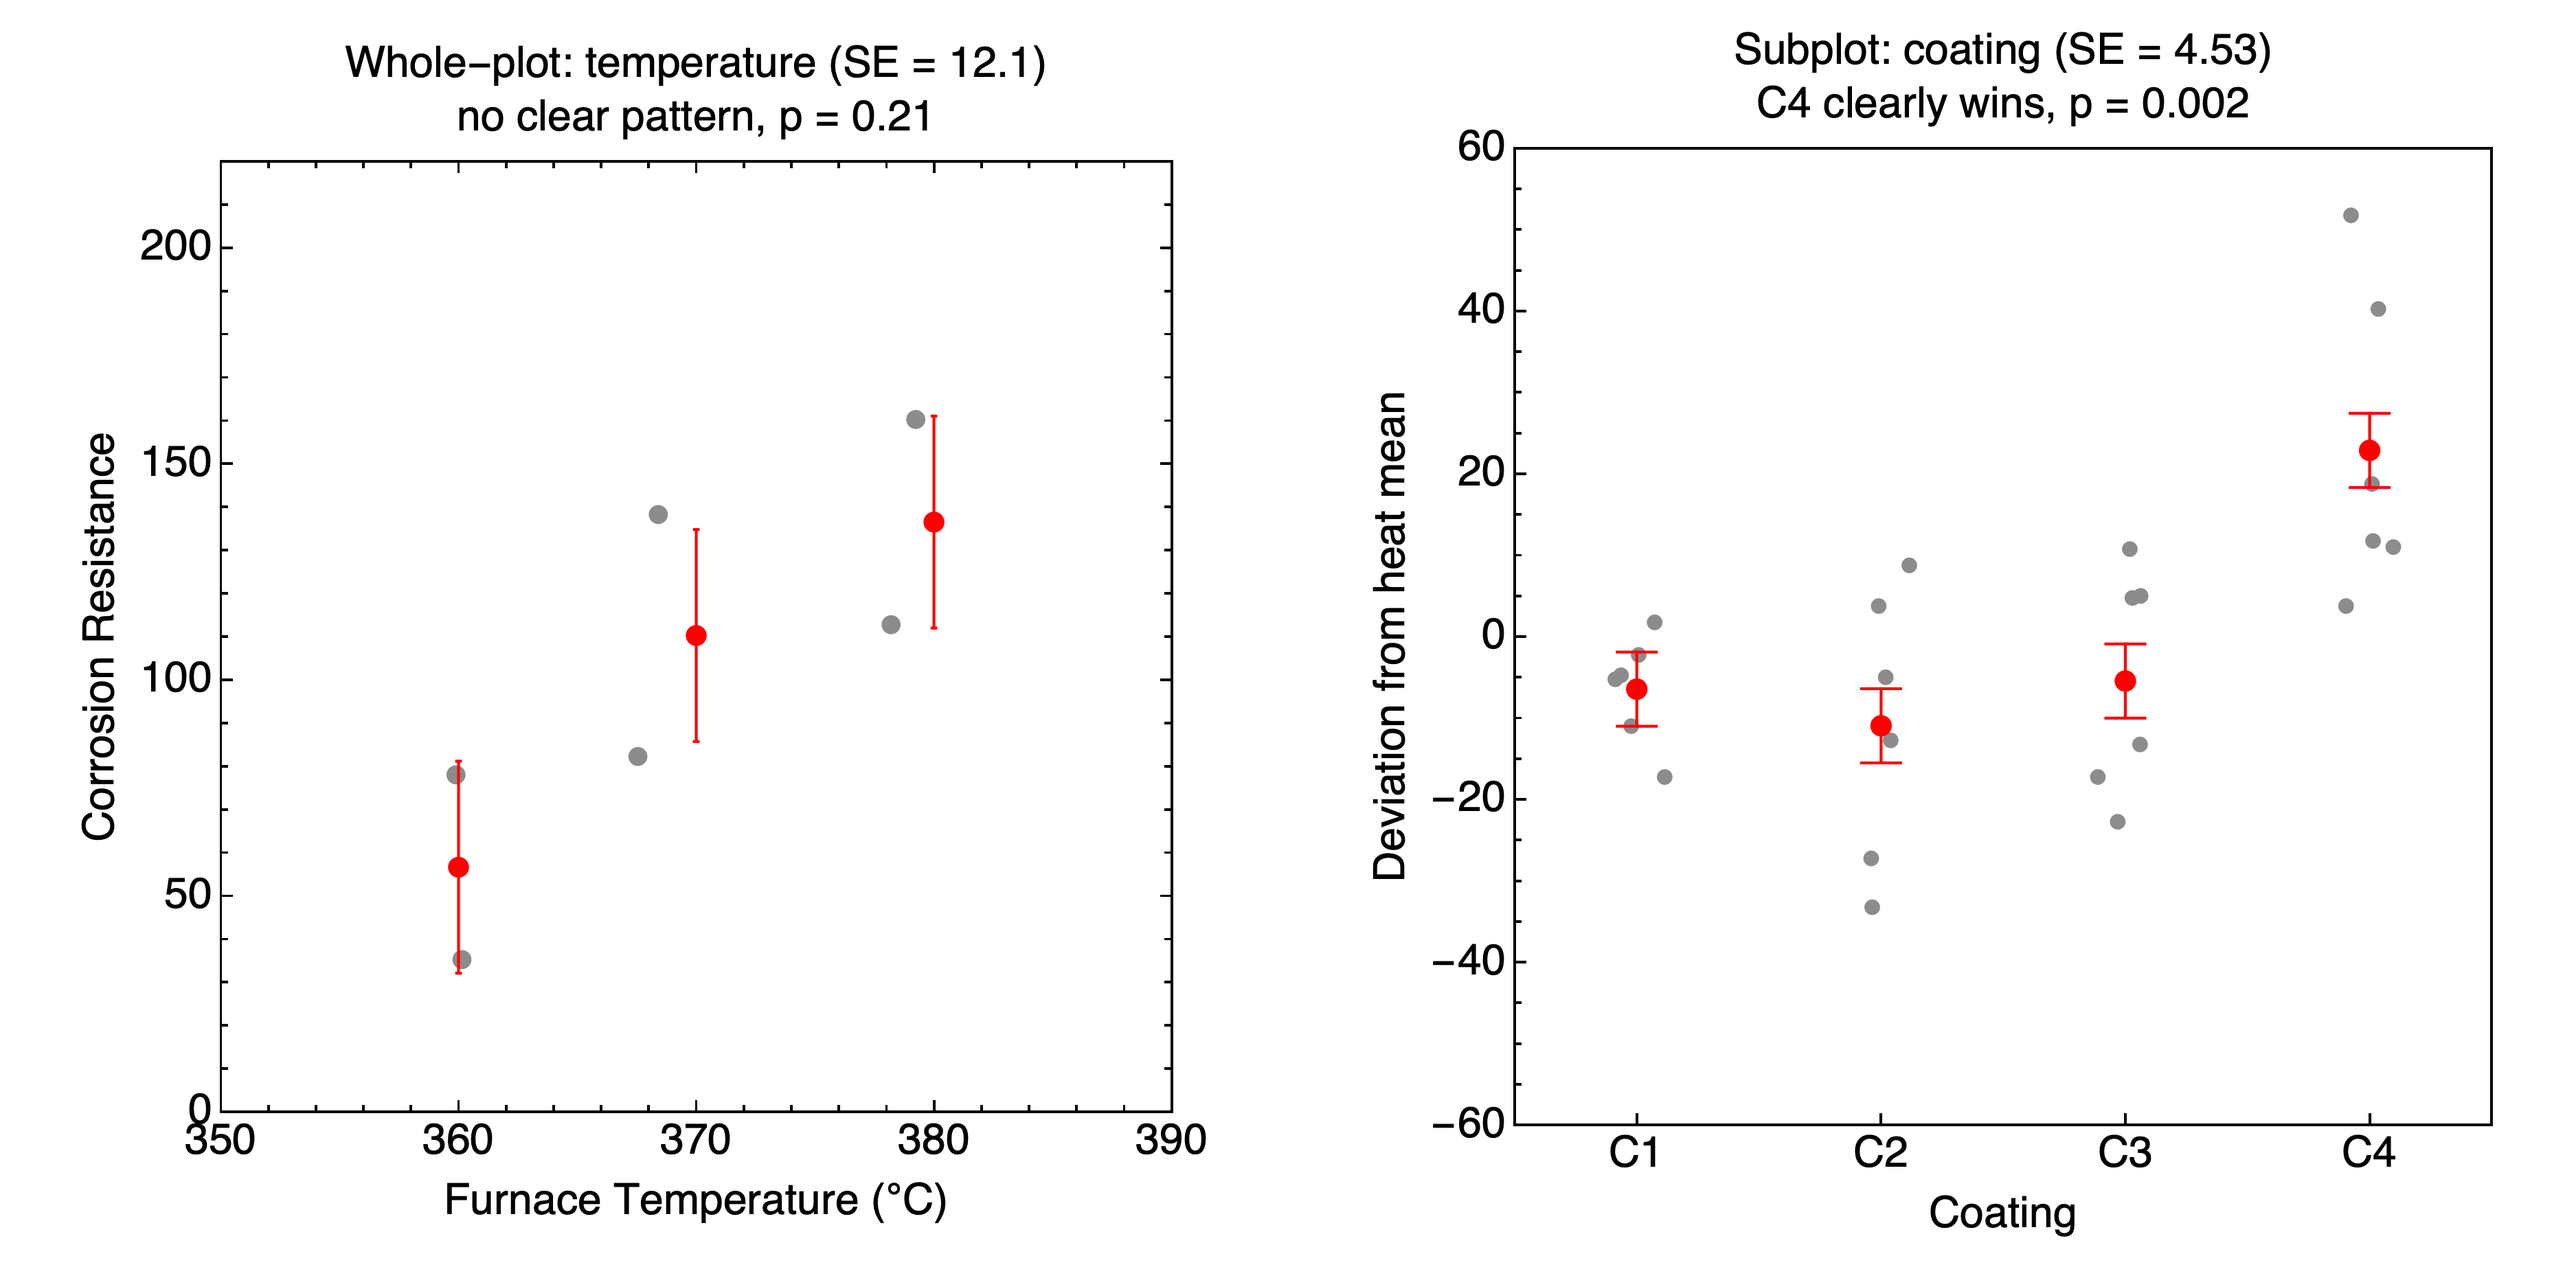
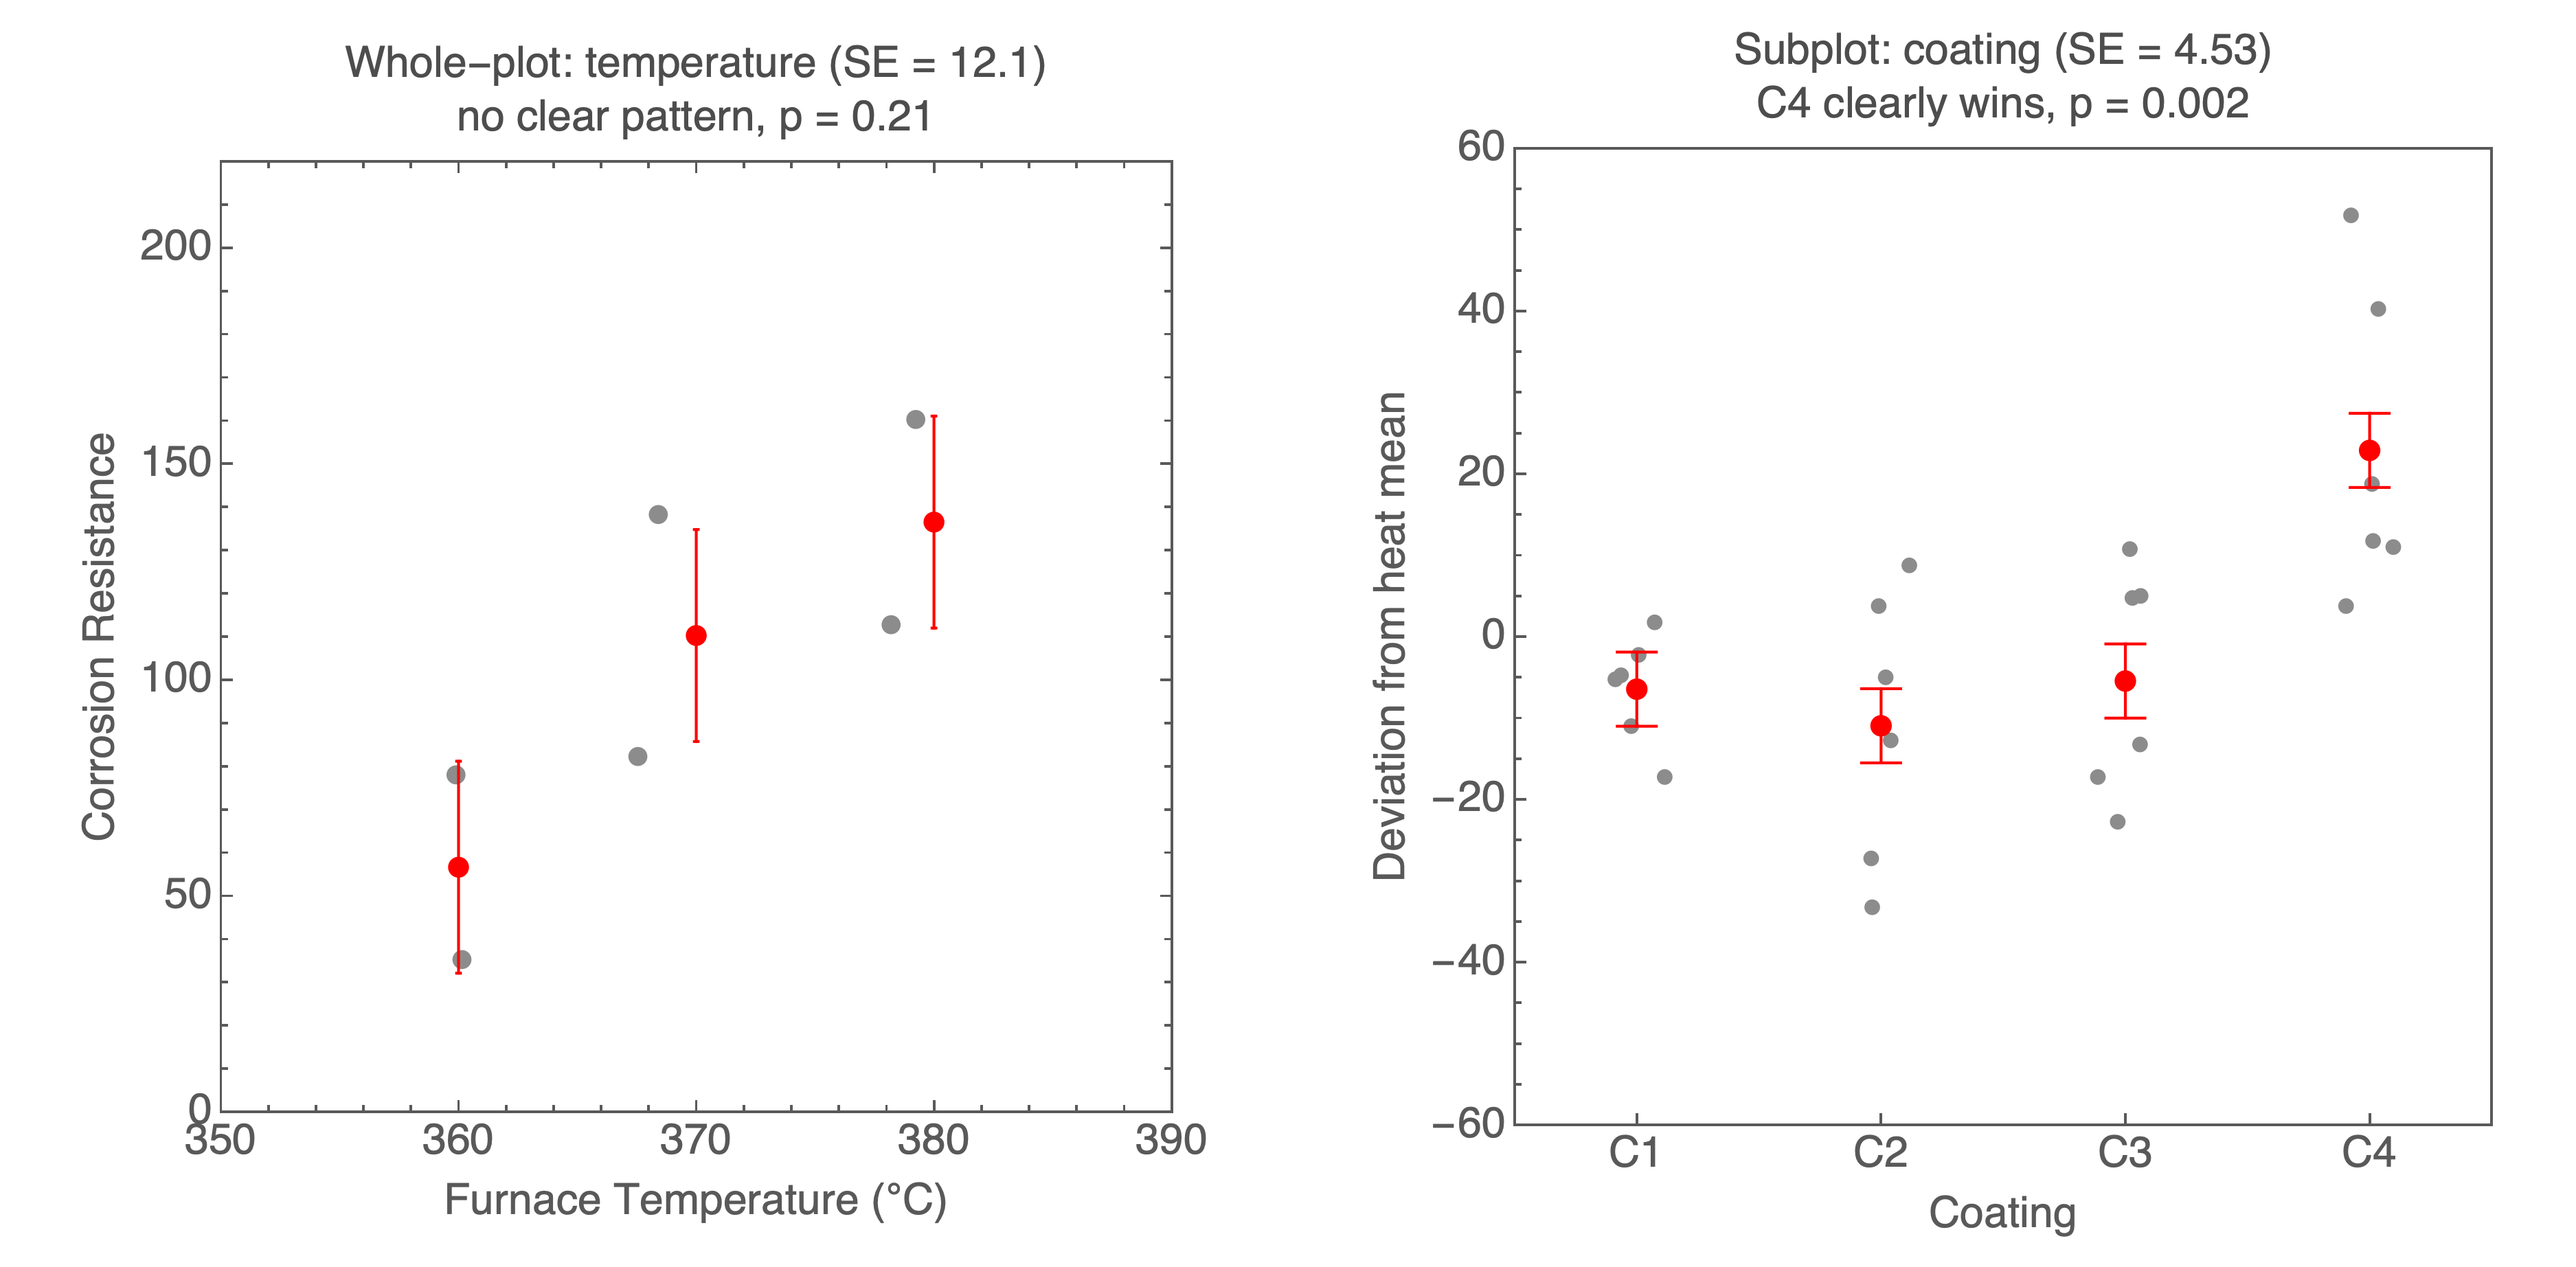
Add dark mode with a manual toggle and dual-theme chart exports
Adds a data-theme="dark" toggle (sun/moon icon in the nav) that defaults
to system preference, persists to localStorage, and applies before first
paint to avoid a flash of the wrong theme. All site colors move to CSS
custom properties with light/dark variants, including Shiki dual-theme
wiring for future code blocks.

Raster charts (Wolfram Language exports) can't be re-themed via CSS, so
alpha_pinene_analysis.wl and CorrosionSplitPlot.wl now export a light-
and dark-styled PNG per chart (transparent background, per-theme gray
values for tick/label contrast), and Figure.astro swaps between them by
data-theme using the same display:none mechanism as the toggle icon, so
the unused variant is never fetched.

diff --git a/site/src/styles/global.css b/site/src/styles/global.css
@@ -8,6 +8,7 @@
   --color-accent-contrast: #f7f7f5;
   --color-axis-border: #deddd8;
   --color-axis-tick: #8b897f;
+  color-scheme: light;
 
   --font-sans: "IBM Plex Sans", -apple-system, BlinkMacSystemFont, "Segoe UI", sans-serif;
   --font-mono: "IBM Plex Mono", ui-monospace, SFMono-Regular, Menlo, monospace;
@@ -21,14 +22,41 @@
   --space-5: 4rem;
 }
 
+/* Dark variant — applied on explicit user choice via data-theme="dark".
+   The inline anti-FOUC script in BaseLayout always sets this attribute
+   before first paint, so this rule covers every JS-enabled visit. */
+:root[data-theme="dark"] {
+  --color-bg: #18191b;
+  --color-text: #ece9e3;
+  --color-text-muted: #9a988f;
+  --color-border: #313236;
+  --color-accent: #4f9c8c; /* lightened, desaturated relative to the light-mode teal so it doesn't glow on dark */
+  --color-accent-contrast: #18191b;
+  --color-axis-border: #2a2b2f;
+  --color-axis-tick: #7f7d75;
+  color-scheme: dark;
+}
+
+/* No-JS fallback: if the anti-FOUC script never ran, data-theme is never
+   set, so fall back to matching system preference via CSS alone. */
+@media (prefers-color-scheme: dark) {
+  :root:not([data-theme="light"]):not([data-theme="dark"]) {
+    --color-bg: #18191b;
+    --color-text: #ece9e3;
+    --color-text-muted: #9a988f;
+    --color-border: #313236;
+    --color-accent: #4f9c8c;
+    --color-accent-contrast: #18191b;
+    --color-axis-border: #2a2b2f;
+    --color-axis-tick: #7f7d75;
+    color-scheme: dark;
+  }
+}
+
 *,
 *::before,
 *::after {
   box-sizing: border-box;
-}
-
-html {
-  color-scheme: light;
 }
 
 body {
@@ -39,6 +67,7 @@ body {
   font-size: 1rem;
   line-height: 1.6;
   -webkit-font-smoothing: antialiased;
+  transition: background-color 0.15s ease, color 0.15s ease;
 }
 
 /* Quantitative Minimalism forbids shadows and rounded corners everywhere */
@@ -142,6 +171,29 @@ pre {
 pre code {
   border: none;
   padding: 0;
+}
+
+/* Shiki dual-theme syntax highlighting (astro.config.mjs sets
+   markdown.shikiConfig.themes + defaultColor: false, which emits
+   --shiki-light/--shiki-dark custom properties instead of baked-in colors). */
+pre.astro-code,
+pre.astro-code span {
+  color: var(--shiki-light);
+  background-color: var(--shiki-light-bg);
+}
+
+:root[data-theme="dark"] pre.astro-code,
+:root[data-theme="dark"] pre.astro-code span {
+  color: var(--shiki-dark);
+  background-color: var(--shiki-dark-bg);
+}
+
+@media (prefers-color-scheme: dark) {
+  :root:not([data-theme="light"]):not([data-theme="dark"]) pre.astro-code,
+  :root:not([data-theme="light"]):not([data-theme="dark"]) pre.astro-code span {
+    color: var(--shiki-dark);
+    background-color: var(--shiki-dark-bg);
+  }
 }
 
 img {
